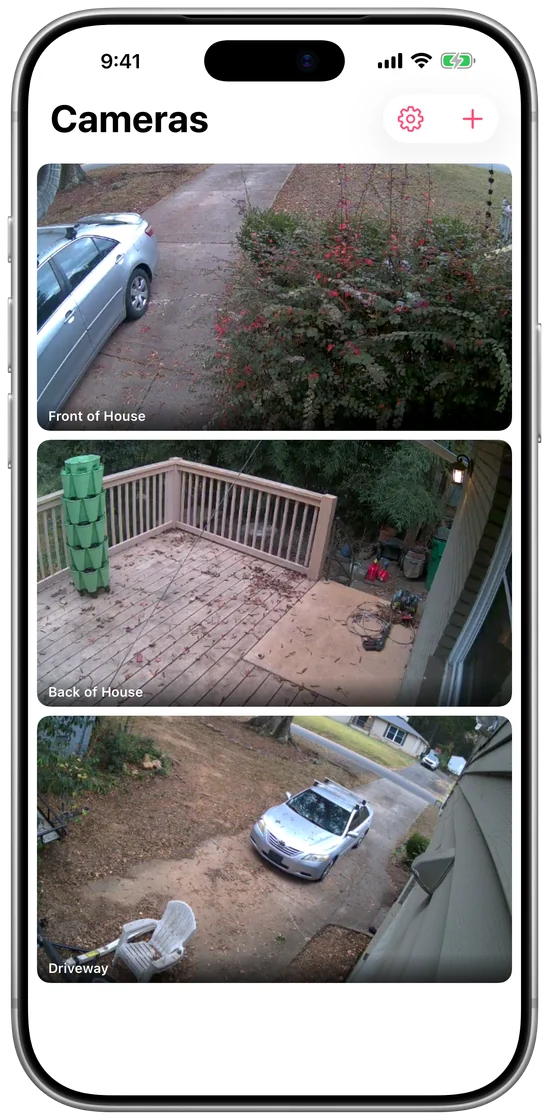
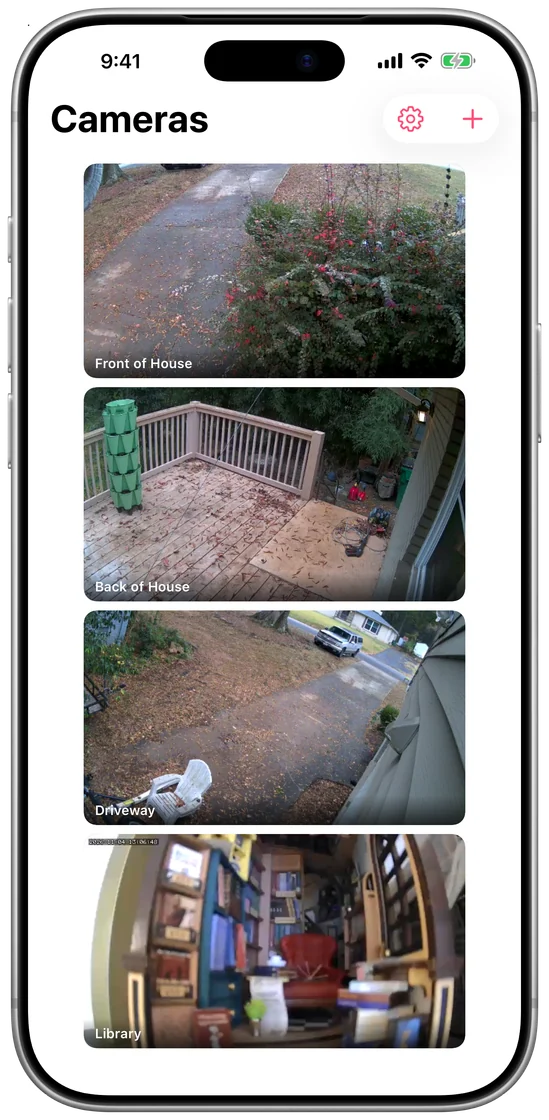
site: show four cameras in every device preview
Claude-Session: https://claude.ai/code/session_01Gy2UhAXR55p3XvTW81w2AZ

diff --git a/site/index.html b/site/index.html
@@ -15,11 +15,11 @@
 </section>
 <section class="show" aria-label="CamFetti on each device" data-show>
   <div class="stage">
-    <figure class="slide on"><img src="/device-iphone.webp" width="549" height="1120" alt="CamFetti on iPhone showing three live cameras"></figure>
+    <figure class="slide on"><img src="/device-iphone.webp" width="549" height="1120" alt="CamFetti on iPhone showing four live cameras"></figure>
     <figure class="slide"><img src="/device-watch.webp" width="560" height="880" loading="lazy" alt="CamFetti on Apple Watch showing the Front of House camera"></figure>
-    <figure class="slide"><img src="/device-mac.webp" width="1600" height="1053" loading="lazy" alt="CamFetti on a MacBook Pro showing three live cameras"></figure>
-    <figure class="slide"><img src="/device-tv.webp" width="1600" height="1034" loading="lazy" alt="CamFetti on Apple TV showing three live cameras"></figure>
-    <figure class="slide"><img class="room" src="/vision-grid.jpg" width="1200" height="743" loading="lazy" alt="CamFetti on Apple Vision Pro showing three live cameras in a room"></figure>
+    <figure class="slide"><img src="/device-mac.webp" width="1600" height="1053" loading="lazy" alt="CamFetti on a MacBook Pro showing four live cameras"></figure>
+    <figure class="slide"><img src="/device-tv.webp" width="1600" height="1034" loading="lazy" alt="CamFetti on Apple TV showing four live cameras"></figure>
+    <figure class="slide"><img class="room" src="/vision-grid.jpg" width="1200" height="743" loading="lazy" alt="CamFetti on Apple Vision Pro showing four live cameras in a room"></figure>
   </div>
   <div class="picker">
     <button type="button" aria-current="true">iPhone<i></i></button>
